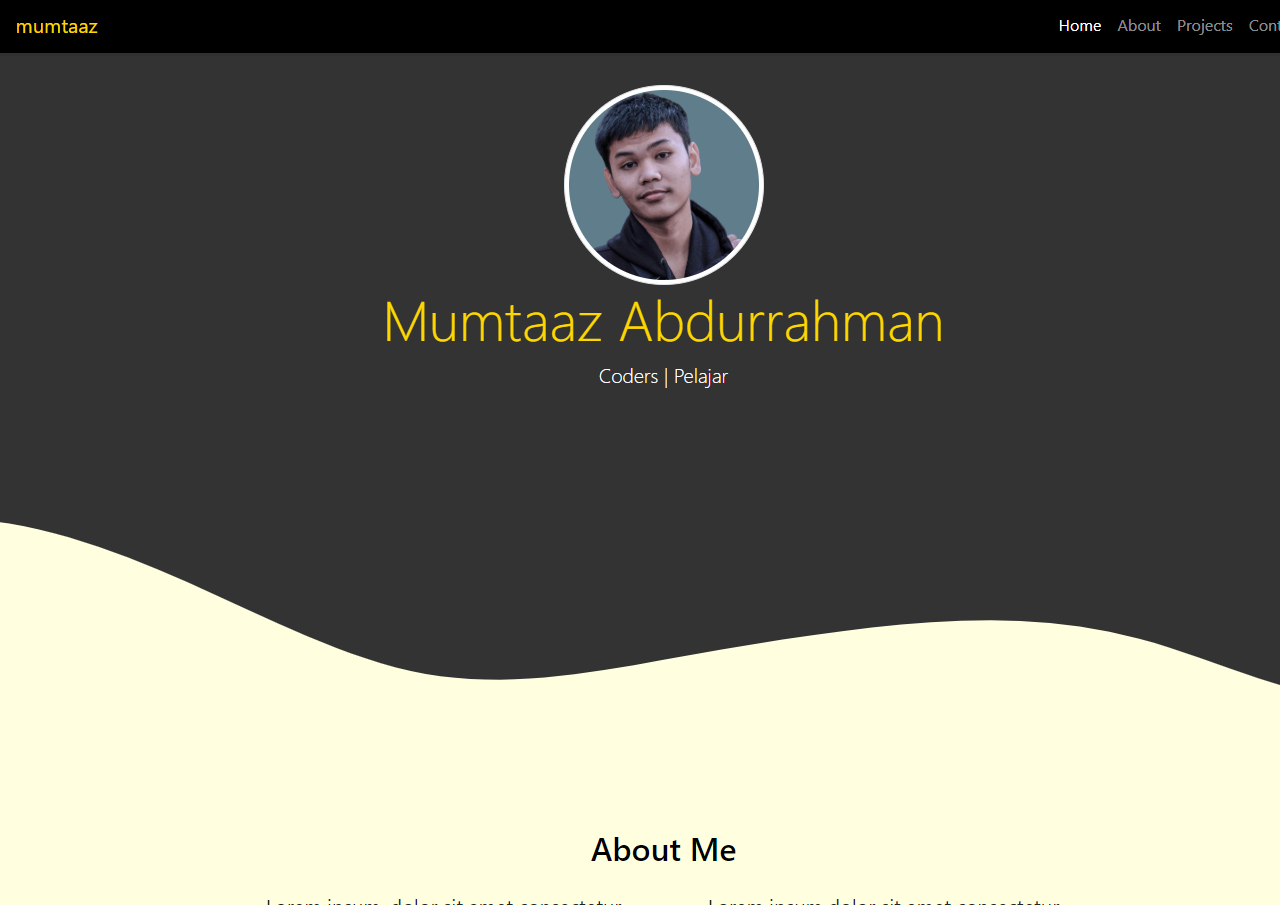
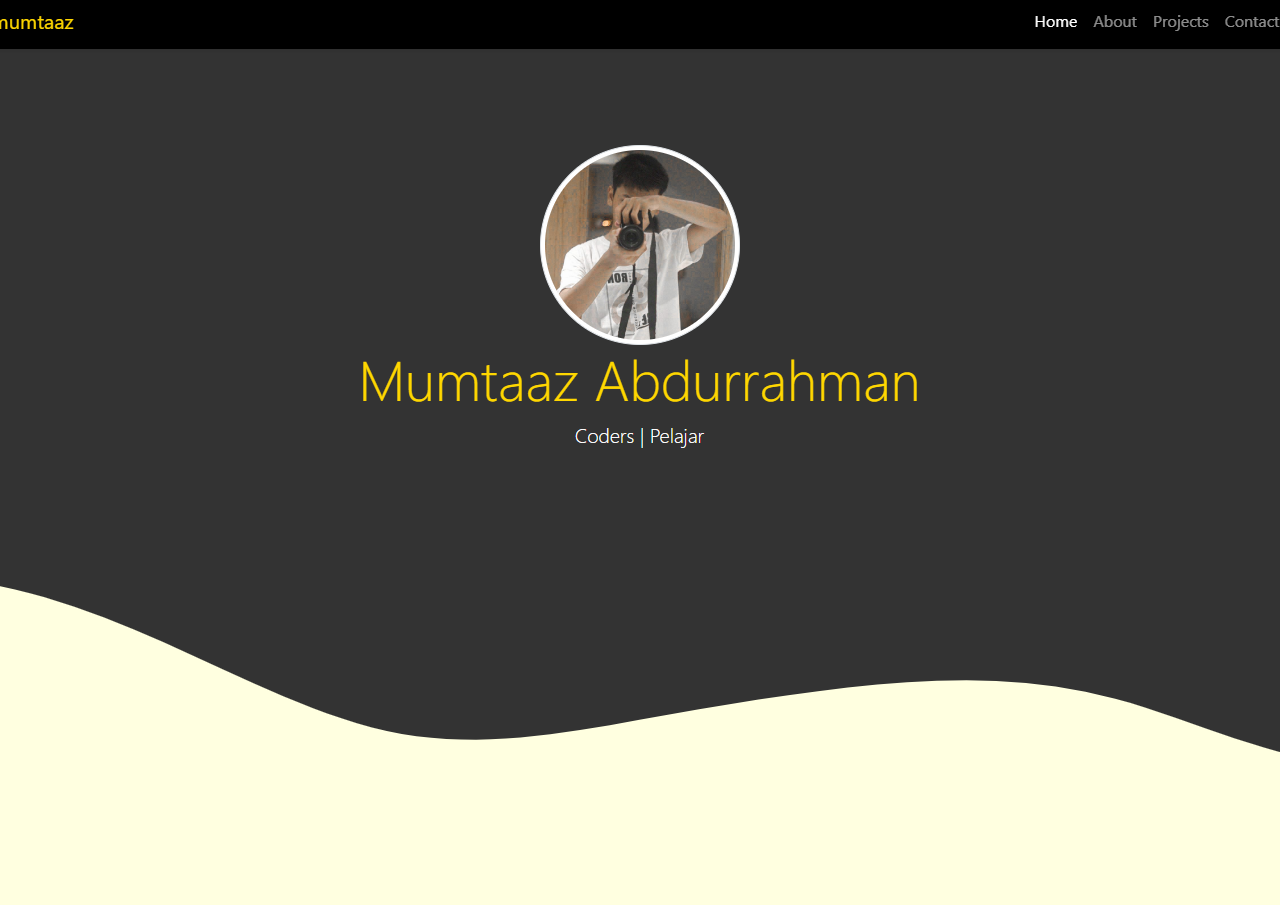
Add files via upload

diff --git a/index.html b/index.html
@@ -51,7 +51,7 @@
     <!-- jumbotron -->
 
     <section class="jumbotron text-center">
-        <img src="aset/foto1.png" alt="mumtaaz abdurrahman" width="200" class="rounded-circle img-thumbnail">
+        <img src="aset/foto2.png" alt="mumtaaz abdurrahman" width="200" class="rounded-circle img-thumbnail">
         <h1 class="display-4" style="color: #ffd700;">Mumtaaz Abdurrahman </h1>
         <p class="lead" style="color: #fff;"></p>
         <svg xmlns="http://www.w3.org/2000/svg" viewBox="0 0 1440 320">
@@ -103,7 +103,7 @@
                 </div>
             </div>
             <div class="row justify-content-center">
-                <div class="col-md-4 mb-3 shadow" data-aos="fade-right" data-aos-duration="1000"
+                <div class="col-md-4 mb-3 shadow" data-aos="flip-right" data-aos-duration="1000"
                 data-aos-delay="200">
                     <div class="card" style="background-color: #000;">
                         <img src="aset/projects/1.png" class="card-img-top" alt="projects1">
@@ -113,7 +113,7 @@
                         </div>
                     </div>
                 </div>
-                <div class="col-md-4 mb-3 shadow" data-aos="flip-up" data-aos-duration="1000"
+                <div class="col-md-4 mb-3 shadow" data-aos="flip-right" data-aos-duration="1000"
                 data-aos-delay="400">
                     <div class="card" style="background-color: #000;">
                         <img src="aset/projects/2.png" class="card-img-top" alt="projects2">
@@ -123,7 +123,7 @@
                         </div>
                     </div>
                 </div>
-                <div class="col-md-4 mb-3 shadow" data-aos="fade-left" data-aos-duration="1000"
+                <div class="col-md-4 mb-3 shadow" data-aos="flip-right" data-aos-duration="1000"
                 data-aos-delay="600">
                     <div class="card" style="background-color: #000;">
                         <img src="aset/projects/3.png" class="card-img-top" alt="projects3">
@@ -133,7 +133,7 @@
                         </div>
                     </div>
                 </div>
-                <div class="col-md-4 mb-3 shadow" data-aos="fade-right" data-aos-duration="1000"
+                <div class="col-md-4 mb-3 shadow" data-aos="flip-right" data-aos-duration="1000"
                 data-aos-delay="800">
                     <div class="card" style="background-color: #000;">
                         <img src="aset/projects/4.png" class="card-img-top" alt="projects4">
@@ -143,7 +143,7 @@
                         </div>
                     </div>
                 </div>
-                <div class="col-md-4 mb-3 shadow" data-aos="fade-left" data-aos-duration="1000"
+                <div class="col-md-4 mb-3 shadow" data-aos="flip-right" data-aos-duration="1000"
                 data-aos-delay="1000">
                     <div class="card" style="background-color: #000;">
                         <img src="aset/projects/5.png" class="card-img-top" alt="projects5">
@@ -176,22 +176,22 @@
             <div class="row justify-content-center">
                 <div class="col-md-6">
                     <form>
-                        <div class="mb-3" data-aos="fade-right" data-aos-duration="1000"
+                        <div class="mb-3" data-aos="zoom-in" data-aos-duration="1000"
                         data-aos-delay="200">
                             <label for="name" class="form-label">Nama Lengkap</label>
                             <input type="text" class="form-control" id="name" aria-describedby="name">
                         </div>
-                        <div class="mb-3" data-aos="fade-left" data-aos-duration="1000"
+                        <div class="mb-3" data-aos="zoom-in" data-aos-duration="1000"
                         data-aos-delay="300">
                             <label for="email" class="form-label">Email</label>
                             <input type="email" class="form-control" id="email" aria-describedby="email">
                         </div>
-                        <div class="mb-3"data-aos="fade-right" data-aos-duration="1000"
+                        <div class="mb-3"data-aos="zoom-in" data-aos-duration="1000"
                         data-aos-delay="400">
                             <label for="pesan" class="form-label">pesan</label>
                             <textarea class="form-control" id="pesan" rows="3"></textarea>
                         </div>
-                        <button data-aos="fade-left" data-aos-duration="1000"
+                        <button data-aos="fade-up" data-aos-duration="1000"
                         data-aos-delay="300" type="submit" class="btn btn-dark">Kirim</button>
                     </form>
                 </div>
@@ -234,7 +234,7 @@
     gsap.registerPlugin(TextPlugin);
     gsap.to('.lead', {duration: 2,delay: 1.5, text: 'Coders | Pelajar '});
     gsap.from('.jumbotron img', { duration: 1, y: '100', opacity: 0});
-    gsap.from('.navbar', { duration: 1.5, y: '-100' , opacity: 0,});
+    gsap.from('.navbar', { duration: 1.5, y: '-100%' , opacity: 0, ease: 'bounce'});
     gsap.from('.display-4', { duration: 1, x: -50 , opacity: 0, delay: 0.5, ease: 'back'});
 </script>
 

diff --git a/style.css b/style.css
@@ -23,3 +23,15 @@ section {
 #about {
     padding-top: 5rem;
 }
+
+/* @media only screen and (max-widht: 768px){
+    html,
+    body{
+        width: 100%;
+        height: 100%;
+        margin: 0;
+        padding: 0;
+        overflow-x:hidden;
+        position: relative;
+    }
+} */
